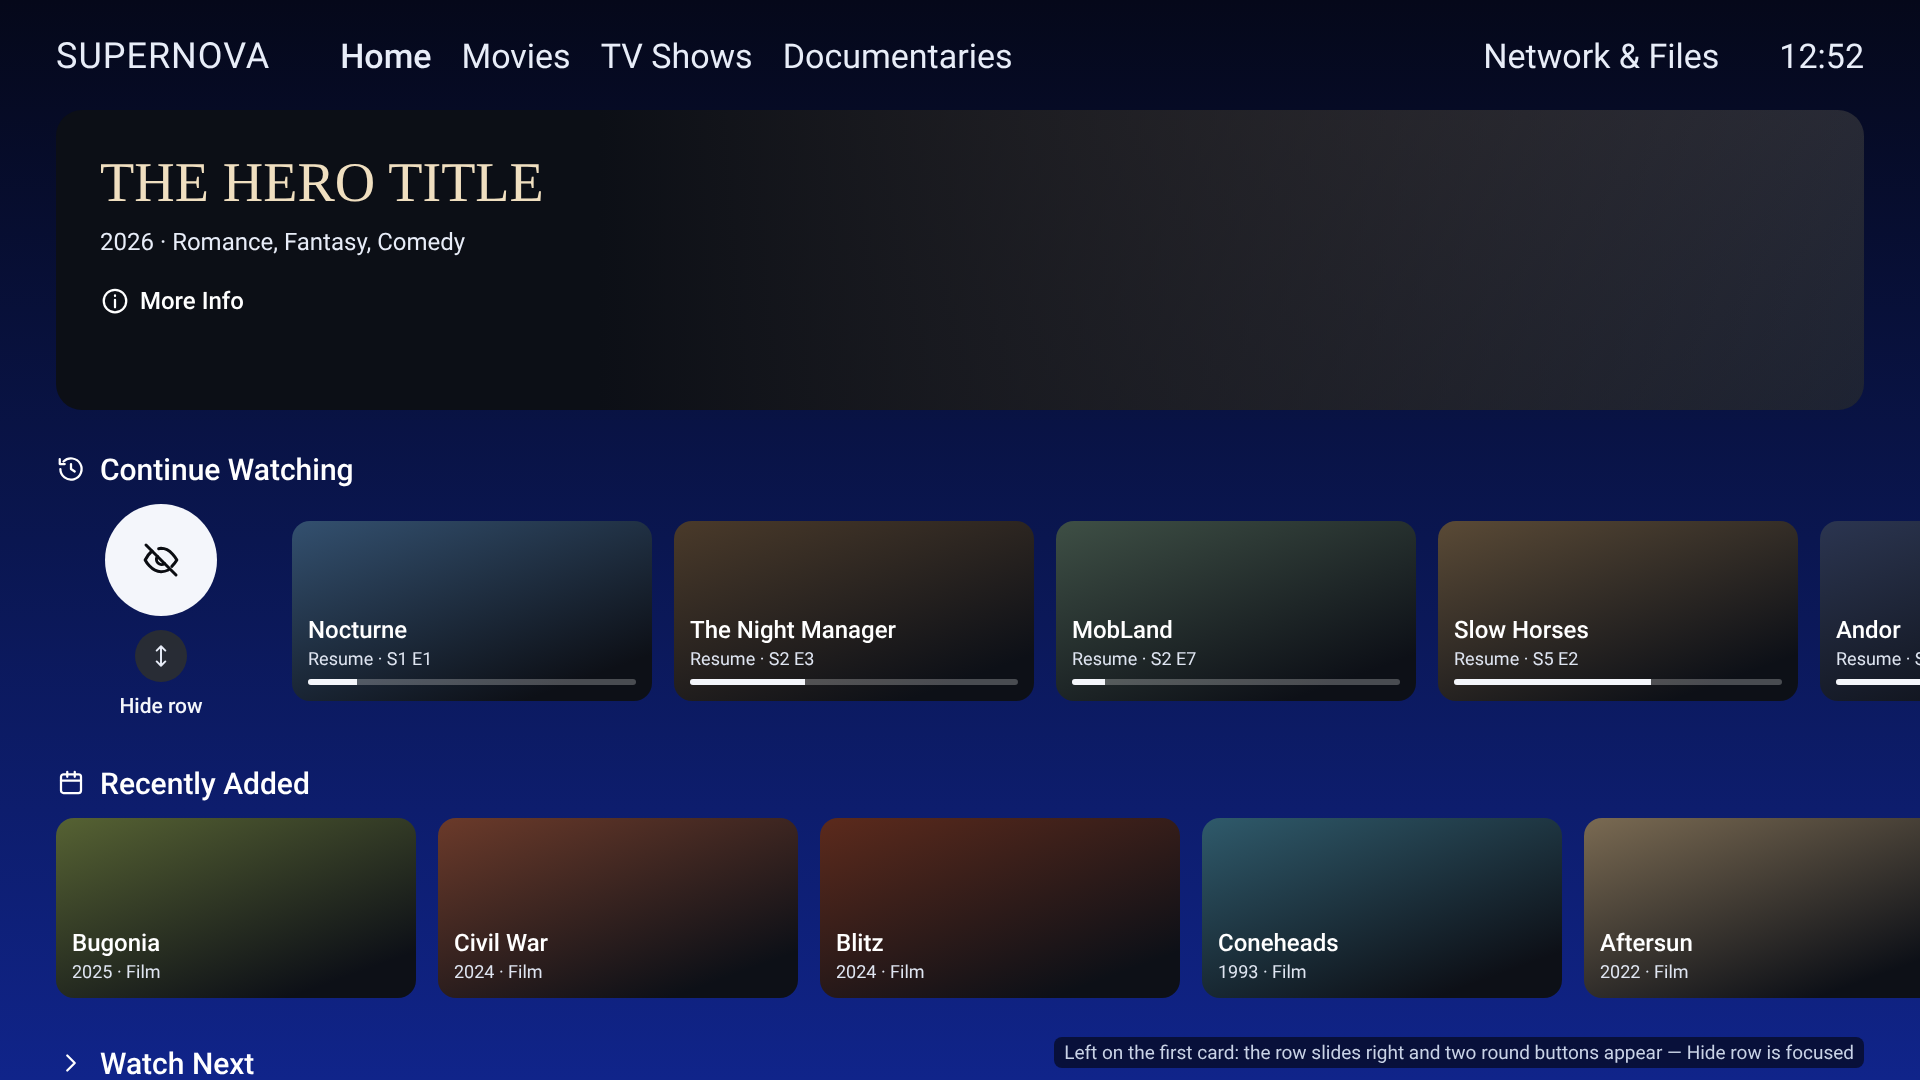
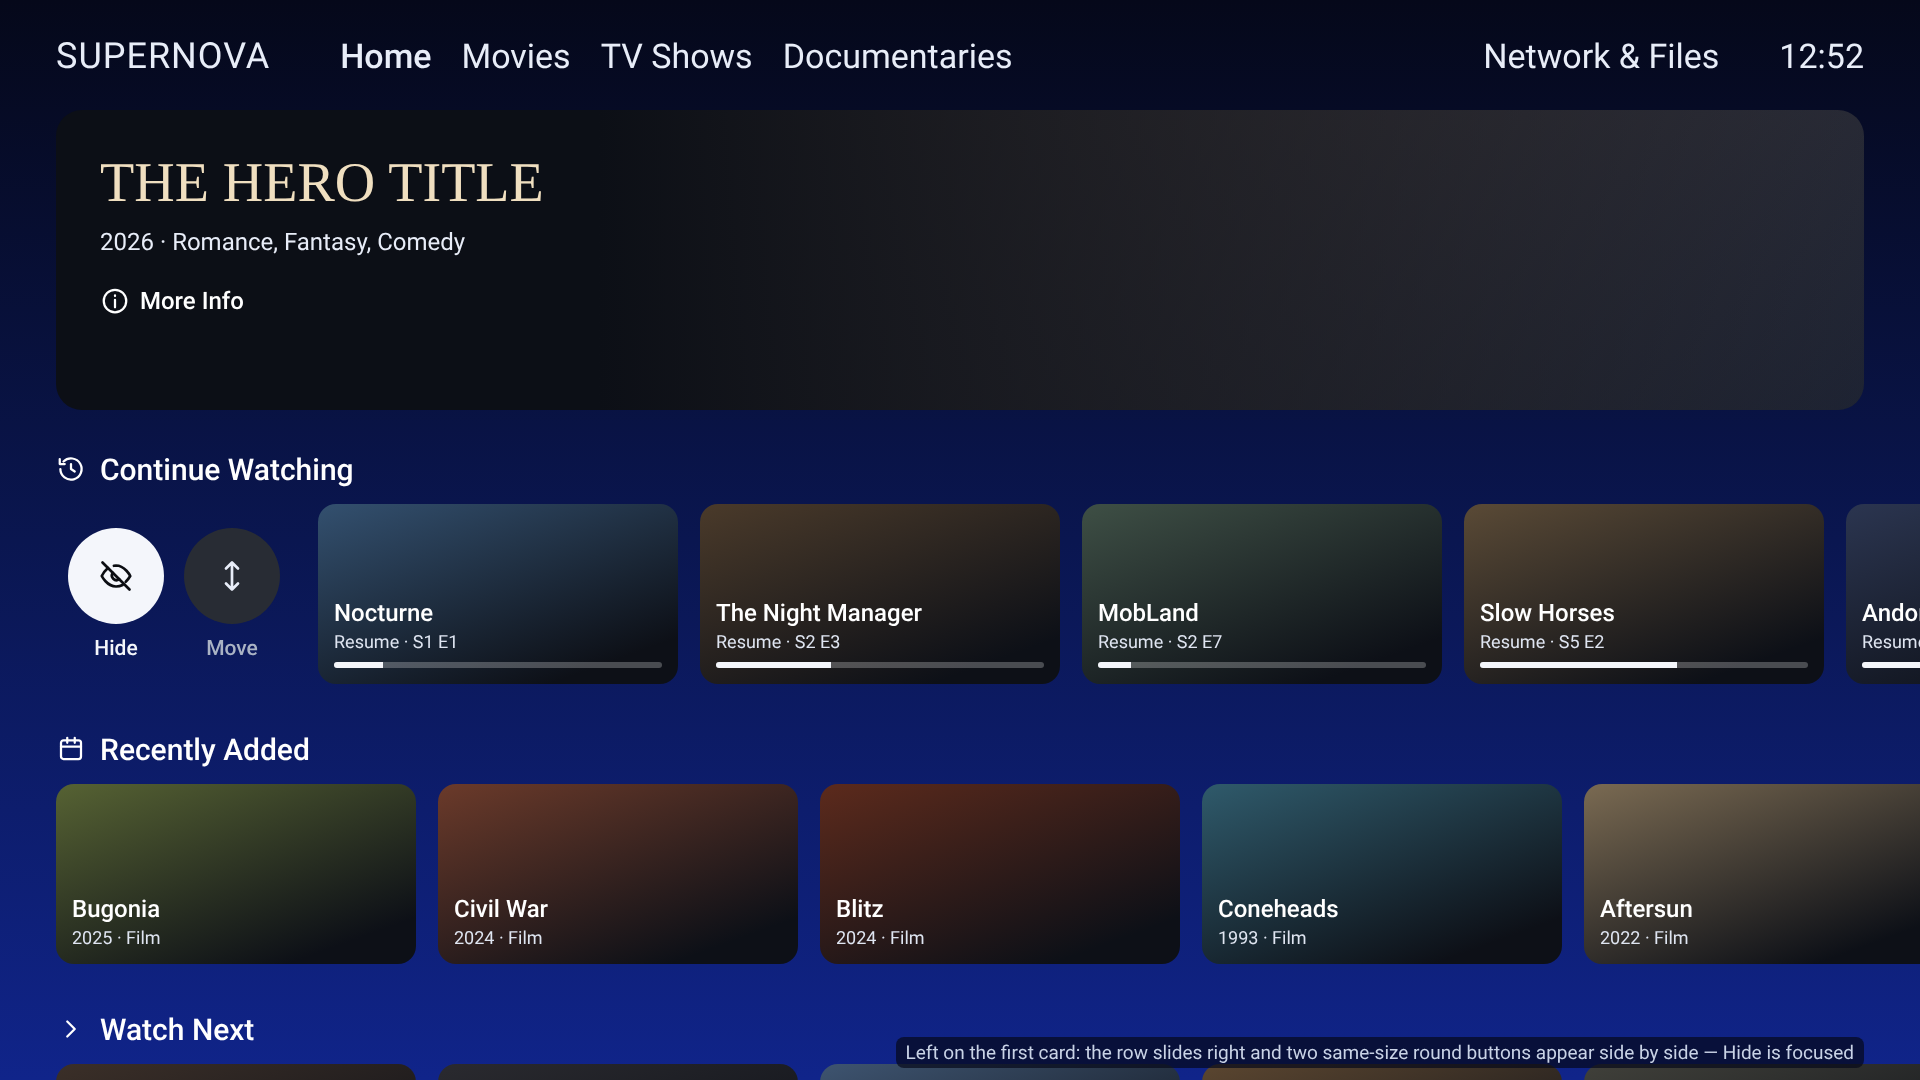
Home row controls: buttons side by side, same size
Claude-Session: https://claude.ai/code/session_01FtDZqamY6pdaUKwc7fqgiA

Changed region(s): [[0.0312, 0.4583, 1.0, 0.7639], [0.0312, 0.825, 1.0, 1.0]]

diff --git a/docs/design/proposals/home-row-controls/render.js b/docs/design/proposals/home-row-controls/render.js
@@ -24,19 +24,20 @@ const cards = {
 const rowDefs = { continue: ['hist', 'Continue Watching'], recent: ['cal', 'Recently Added'], next: ['next', 'Watch Next'] };
 const card = ([t, s, p, c], focus) => `<div class="card${focus ? ' focus' : ''}" style="background:linear-gradient(160deg,${c},#0d1017 85%)"><div class="ct">${t}</div><div class="cs">${s}</div>${p ? `<div class="pb"><i style="width:${p * 100}%"></i></div>` : ''}</div>`;
 // mode: 'hide' (Hide focused) | 'move' (Move focused) | 'moving' (row being moved, now in slot 2)
-const controls = mode => mode === 'moving'
-  ? `<div class="ctl"><div class="rb big on moving">${ic('up', 30, 2.2)}${ic('move', 34, 2)}${ic('down', 30, 2.2)}</div><div class="rl">Moving · row 2 of 7</div></div>`
-  : `<div class="ctl"><div class="rbs"><div class="rb ${mode === 'hide' ? 'big on' : 'small'}">${ic('hide', mode === 'hide' ? 40 : 26)}</div><div class="rb ${mode === 'move' ? 'big on' : 'small'}">${ic('move', mode === 'move' ? 40 : 26)}</div></div><div class="rl">${mode === 'hide' ? 'Hide row' : 'Move row'}</div></div>`;
+const btn = (k, label, on, extra) => `<div class="cb"><div class="rb${on ? ' on' : ''}">${extra || ic(k, 36)}</div><div class="rl${on ? ' on' : ''}">${label}</div></div>`;
+const controls = mode => `<div class="ctl">${btn('hide', 'Hide', mode === 'hide')}${mode === 'moving'
+  ? btn('move', 'Moving', true, `${ic('up', 24, 2.4)}${ic('move', 30, 2)}${ic('down', 24, 2.4)}`)
+  : btn('move', 'Move', mode === 'move')}</div>`;
 const row = (id, mode) => {
   const [icon, name] = rowDefs[id];
   const active = mode && id === 'continue';
-  return `<div class="row${active ? ' active' : ''}${active && mode === 'moving' ? ' lifted' : ''}"><div class="rh">${ic(icon, 30)}${name}${active && mode === 'moving' ? '<span class="hint">↑ ↓ to move · OK or Back when done</span>' : ''}</div>
+  return `<div class="row${active ? ' active' : ''}${active && mode === 'moving' ? ' lifted' : ''}"><div class="rh">${ic(icon, 30)}${name}${active && mode === 'moving' ? '<span class="hint">Row 2 of 7 · ↑ ↓ to move · OK or Back when done</span>' : ''}</div>
     <div class="rc">${active ? controls(mode) : ''}<div class="cards">${cards[id].map((c, i) => card(c, false)).join('')}</div></div></div>`;
 };
 const shots = [
-  ['01-left-reveals-hide.png', ['continue', 'recent', 'next'], 'hide', 'Left on the first card: the row slides right and two round buttons appear — Hide row is focused'],
-  ['02-move-focused.png', ['continue', 'recent', 'next'], 'move', 'Down (or right) moves to Move row; Up goes back to Hide; Right returns to the first card'],
-  ['03-moving-live.png', ['recent', 'continue', 'next'], 'moving', 'OK on Move: the row lifts; Up/Down moves it live (here it is now row 2); OK or Back drops it'],
+  ['01-left-reveals-hide.png', ['continue', 'recent', 'next'], 'hide', 'Left on the first card: the row slides right and two same-size round buttons appear side by side — Hide is focused'],
+  ['02-move-focused.png', ['continue', 'recent', 'next'], 'move', 'Right moves to Move; Left goes back to Hide; Right again returns to the first card'],
+  ['03-moving-live.png', ['recent', 'continue', 'next'], 'moving', 'OK on Move: the row lifts; Up/Down moves it live (here it is now row 2 of 7); OK or Back drops it'],
 ];
 const css = `${font(400)}${font(500)}
 *{box-sizing:border-box;margin:0}
@@ -56,13 +57,11 @@ body{width:1920px;height:1080px;overflow:hidden;font-family:R;color:#fff;positio
 .card{width:360px;height:180px;border-radius:18px;position:relative;flex:none;padding:16px;display:flex;flex-direction:column;justify-content:flex-end}
 .ct{font-size:24px;font-weight:500}.cs{font-size:18px;color:#dfe5f1;margin-top:4px}
 .pb{height:6px;border-radius:3px;background:rgba(255,255,255,.25);margin-top:10px;overflow:hidden}.pb i{display:block;height:100%;background:#F4F6FB}
-.ctl{width:210px;flex:none;display:flex;flex-direction:column;align-items:center;gap:12px}
-.rbs{display:flex;flex-direction:column;align-items:center;gap:14px}
-.rb{border-radius:50%;display:flex;align-items:center;justify-content:center;flex-direction:column}
-.rb.small{width:52px;height:52px;background:rgba(42,45,51,.95);color:#e8edf8}
-.rb.big{width:112px;height:112px;background:#F4F6FB;color:#0B0D12}
-.rb.moving{width:112px;height:150px;border-radius:56px;gap:0}
-.rl{font-size:21px;font-weight:500;color:#F4F6FB;white-space:nowrap}
+.ctl{width:236px;flex:none;display:flex;justify-content:center;gap:20px}
+.cb{display:flex;flex-direction:column;align-items:center;gap:12px}
+.rb{width:96px;height:96px;border-radius:50%;display:flex;flex-direction:column;align-items:center;justify-content:center;background:rgba(42,45,51,.95);color:#e8edf8;line-height:0}
+.rb.on{background:#F4F6FB;color:#0B0D12}
+.rl{font-size:21px;font-weight:500;color:#aab3c4;white-space:nowrap}.rl.on{color:#F4F6FB}
 .label{position:absolute;right:56px;bottom:12px;font-size:19px;color:#c9d3e6;background:rgba(5,8,26,.7);padding:4px 10px;border-radius:8px}`;
 (async () => {
   const browser = await chromium.launch();

diff --git a/docs/0.155/OWNER_NOTES.md b/docs/0.155/OWNER_NOTES.md
@@ -155,9 +155,10 @@ Codex's branch `codex/0155-code-2026-11-04` (DP-01…DP-07, TV-only stages). **N
   (`PreviewHomeRows.rowControls`). Customise Home at the bottom of Home also needs work (later item).
 - **Want (owner, from the Shield home screen):** no pop-up; buttons to the left of the row that appear only when you
   reach the start of the row.
-- **Proposed (`docs/design/proposals/home-row-controls/01`–`03`):** Left on the first card slides the row right
-  and shows two round buttons, **Hide row** (focused, large white) and **Move row** (small); Down/Up switches between
-  them, Right returns to the cards. OK on Move lifts the row (white outline); Up/Down moves it live, one place at a
+- **Proposed (`docs/design/proposals/home-row-controls/01`–`03`, revised 4 Nov 2026 after the owner asked for the
+  buttons side by side and the same size):** Left on the first card slides the row right and shows two same-size
+  round buttons side by side, **Hide** and **Move**, each labelled underneath; the focused one is white. Left/Right
+  moves between them, and Right from Move returns to the first card. OK on Move lifts the row (white outline); Up/Down moves it live, one place at a
   time, with "Moving · row 2 of 7"; OK or Back drops it. Hide removes the row with an Undo notice (rows come back
   from Customise Home).
 - **Status:** awaiting the owner's approval — then awaiting go-ahead to code.
